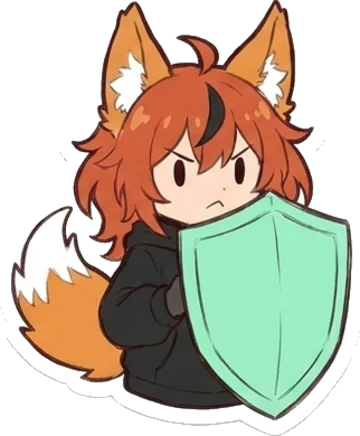
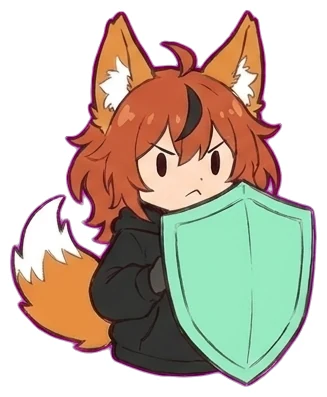
docs: move from MkDocs to Ushka Docs at ushka.satela.com.br/docs
- docs/nav.toml replaces mkdocs.yml; the API stubs are gone (generated now)
- new guide page for Ushka Docs; docs links point to the new site, including
  UnsafeValueError.docs
- CI checks every page, link and anchor with `ushka docs check`
- GitHub Pages now only redirects old links to the new site
- mascot artwork re-cut with chroma key (no white specks, white fur kept,
  uniform sticker outline); the sleeping sticker now matches her outfit

kleber-code

Changed region(s): [[0.0306, 0.0, 0.9786, 1.0], [0.8869, 0.9068, 0.9174, 0.937]]

diff --git a/src/ushka/internal/default_templates/startup.html b/src/ushka/internal/default_templates/startup.html
@@ -28,7 +28,7 @@
         </div>
         <nav aria-label="Ushka resources">
           <ul class="links">
-            <li><a href="https://kleber-code.github.io/ushka/"><span class="bubble b-pink"><svg class="icon" viewBox="0 0 24 24" aria-hidden="true"><path d="M2 5h7a3 3 0 0 1 3 3v12a2 2 0 0 0-2-2H2z"/><path d="M22 5h-7a3 3 0 0 0-3 3v12a2 2 0 0 1 2-2h8z"/></svg></span>Documentation</a></li>
+            <li><a href="https://ushka.satela.com.br/docs/"><span class="bubble b-pink"><svg class="icon" viewBox="0 0 24 24" aria-hidden="true"><path d="M2 5h7a3 3 0 0 1 3 3v12a2 2 0 0 0-2-2H2z"/><path d="M22 5h-7a3 3 0 0 0-3 3v12a2 2 0 0 1 2-2h8z"/></svg></span>Documentation</a></li>
             <li><a href="https://pypi.org/project/ushka/"><span class="bubble b-mint"><svg class="icon" viewBox="0 0 24 24" aria-hidden="true"><path d="M12 2l9 5v10l-9 5-9-5V7z"/><path d="M3 7l9 5 9-5M12 12v10"/></svg></span>View on PyPI</a></li>
             <li><a href="https://github.com/kleber-code/ushka"><span class="bubble b-sky"><svg class="icon" viewBox="0 0 24 24" aria-hidden="true"><path d="M8 7l-5 5 5 5M16 7l5 5-5 5M14 4l-4 16"/></svg></span>Source on GitHub</a></li>
           </ul>

diff --git a/tests/test_workflows.py b/tests/test_workflows.py
@@ -71,18 +71,9 @@ def test_every_step_uses_only_known_keys(path):
             )
 
 
-def test_docs_workflow_installs_pngquant():
-    """`mkdocs-material`'s `optimize` plugin shells out to `pngquant`.
-
-    The binary is not on the GitHub runner image, so the deployment step fails
-    unless the workflow installs it explicitly.
-    """
-    workflow = _load(WORKFLOW_DIR / "docs-deploy.yml")
-    commands = " ".join(
-        step.get("run", "")
-        for job in workflow["jobs"].values()
-        for step in job["steps"]
-    )
-
-    assert "pngquant" in commands
-    assert "git config user.email" in commands
+def test_ci_checks_the_docs_with_ushka_docs():
+    """The docs are rendered by ushka.docs; CI must fail on broken links."""
+    workflow = _load(WORKFLOW_DIR / "ci.yml")
+    steps = workflow["jobs"]["docs"]["steps"]
+    assert any("ushka docs check" in str(step.get("run", "")) for step in steps)
+    assert not any("mkdocs" in str(step.get("run", "")) for step in steps)

diff --git a/src/ushka/cli/commands/new.py b/src/ushka/cli/commands/new.py
@@ -126,7 +126,7 @@ It uses **Ushka**, an async Python web framework with filesystem routing and
   `from ushka.guard import safe`.
 - Mark language-model output with `guard.llm(text)` before using it.
 - An `UnsafeValueError` (`USHKA-G00x`) explains the risk and the fix: apply
-  the fix, do not silence it. Docs: https://kleber-code.github.io/ushka/guide/guard/
+  the fix, do not silence it. Docs: https://ushka.satela.com.br/docs/guide/guard/
 
 ## Commands
 

diff --git a/src/ushka/guard/errors.py b/src/ushka/guard/errors.py
@@ -12,7 +12,7 @@ from typing import Any
 
 __all__ = ["UnsafeValueError"]
 
-DOCS_BASE = "https://kleber-code.github.io/ushka/guide/guard/#"
+DOCS_BASE = "https://ushka.satela.com.br/docs/guide/guard/#"
 
 
 class UnsafeValueError(Exception):

diff --git a/docs/guide/docs.md b/docs/guide/docs.md
@@ -1,0 +1,123 @@
+---
+description: Ushka Docs turns a folder of Markdown into a fast, searchable documentation site with an API reference, served by your Ushka app.
+---
+
+# Ushka Docs
+
+Ushka Docs turns a folder of Markdown into a documentation site served by your
+own app. It is the engine behind the docs you are reading.
+
+- **Rendering.** Pages are rendered once at startup, with code highlighted on
+  the server by Pygments, so the browser runs no JavaScript to colour code.
+- **Search.** Search runs on the server: no index file to download.
+- **API reference.** The reference is generated from your docstrings (numpy
+  style) with griffe.
+- **SEO.** Every page gets a title, description, canonical URL, Open Graph
+  tags and breadcrumbs, and the site publishes a `sitemap.xml`.
+- **Checking.** `ushka docs check` fails on broken links, missing anchors or
+  pages left out of the navigation, which makes it a good CI step.
+
+It is an optional battery: nothing loads until you use it.
+
+```console
+$ pip install "ushka[docs]"
+```
+
+## Mount it
+
+```python
+# app.py
+from ushka import Ushka
+from ushka.docs import Docs
+
+app = Ushka()
+Docs(
+    "docs",                          # the Markdown folder, next to app.py
+    url="/docs",
+    title="My project",
+    base_url="https://example.com",  # canonical URLs and sitemap.xml
+).mount(app)
+```
+
+`Docs.mount()` registers these routes:
+
+| Route | What it serves |
+| --- | --- |
+| `/docs/` and `/docs/<page>/` | Rendered pages. `guide/cli.md` becomes `/docs/guide/cli/`. |
+| `/docs/search?q=` | Search results. The query arrives as `Untrusted` and is always escaped. |
+| `/docs/sitemap.xml` | Every page, when `base_url` is set. |
+| `/docs/<file>` | Images and other assets from the docs folder. Markdown sources and `nav.toml` are never served. |
+
+## Write pages
+
+Write plain Markdown (CommonMark) with tables, task lists, definition lists
+and admonitions:
+
+```markdown
+!!! tip "Optional title"
+    Indented text becomes the body of the box.
+```
+
+Use relative links to other `.md` files, with an optional `#anchor`; they are
+rewritten to page URLs and checked. Heading ids follow the usual slug rules,
+so `### USHKA-G003` becomes `#ushka-g003`.
+
+Front matter is optional:
+
+```markdown
+---
+title: Shown in the tab and in the navigation
+description: Used for the meta description and search previews.
+---
+```
+
+When a page has no description, the first paragraph long enough to describe
+it is used instead.
+
+## Navigation
+
+List the pages in reading order in `docs/nav.toml`:
+
+```toml
+[[section]]
+title = ""
+pages = ["index.md"]
+
+[[section]]
+title = "Guide"
+pages = ["guide/install.md", "guide/routing.md"]
+
+[api]
+title = "API reference"
+modules = ["myproject.core", "myproject.utils"]
+```
+
+The `[api]` modules are documented when you pass `api_package="myproject"`
+(and `api_path="src"` if the package lives there).
+
+## Check and preview
+
+```console
+$ ushka docs check docs --api myproject   # exit code 1 on any problem
+$ ushka docs serve docs                   # http://127.0.0.1:8001/docs/
+```
+
+## Make it yours
+
+The theme is a set of templates (`docs/layout.html`, `docs/page.html` and
+`docs/search.html`). Files with the same names in your project's
+`templates/docs/` folder replace them. Smaller tweaks need no templates:
+
+```python
+Docs(
+    "docs",
+    logo="/static/logo.png",
+    og_image="https://example.com/static/og.png",
+    links=[("GitHub", "https://github.com/me/project")],
+    edit_url="https://github.com/me/project/edit/main/docs/",
+    extra_css=["/static/brand.css"],
+)
+```
+
+The default theme keeps text on flat backgrounds, and its colour pairs meet
+WCAG AA contrast (4.5:1) in light and dark mode.

diff --git a/README.md b/README.md
@@ -3,7 +3,7 @@
 # Ushka
 
 [![PyPI Version](https://img.shields.io/pypi/v/ushka)](https://pypi.org/project/ushka/)
-[![Documentation](https://img.shields.io/badge/docs-kleber--code.github.io%2Fushka-pink)](https://kleber-code.github.io/ushka/)
+[![Documentation](https://img.shields.io/badge/docs-ushka.satela.com.br-F07A3A)](https://ushka.satela.com.br/docs/)
 ![Python Versions](https://img.shields.io/pypi/pyversions/ushka)
 ![License](https://img.shields.io/pypi/l/ushka)
 
@@ -35,7 +35,7 @@ OWASP Top 10 flaws in
 Apps also pass **model output** into HTML, redirects and SQL, where prompt
 injection can steer it. Ushka puts the check where it cannot be skipped: in
 the framework, at runtime, on your real code. Read
-[Why Ushka changed](https://kleber-code.github.io/ushka/why-ushka-changed/).
+[Why Ushka changed](https://ushka.satela.com.br/docs/why-ushka-changed/).
 
 ## What's in the box
 
@@ -50,7 +50,8 @@ the framework, at runtime, on your real code. Read
   - Async Active Record ORM on SQLAlchemy, with migrations in `ushka db` (extra `ushka[orm]`).
   - Jinja2 templates, signed sessions, cookies, flash messages, file uploads and request size limits.
 - **Config.** Defaults, then `ushka.toml`, then `.env`, then environment variables, all without extra packages. `DATABASE_URL` works out of the box.
-- **CLI.** `new`, `dev`, `run`, `check` (CI-friendly security check), `routes` and `db`.
+- **Ushka Docs.** A Markdown folder becomes a searchable docs site with an API reference, served by your app (`ushka[docs]`).
+- **CLI.** `new`, `dev`, `run`, `check` (CI-friendly security check), `docs`, `routes` and `db`.
 - **Low dependency.** The core needs only `uvicorn`, `jinja2` and `python-multipart` (plus `tomli` on 3.10).
 
 ## Quick start
@@ -98,8 +99,8 @@ ushka check --production   # fails (exit 1) on debug on, missing secret, guard o
 ## Documentation
 
 Guides, the Ushka Guard reference and the API reference are at
-**https://kleber-code.github.io/ushka/**. For AI tools there is
-[`llms.txt`](https://kleber-code.github.io/ushka/llms.txt).
+**https://ushka.satela.com.br/docs/**. For AI tools there is
+[`llms.txt`](https://ushka.satela.com.br/llms.txt).
 
 ## Contributing
 

diff --git a/CHANGELOG.md b/CHANGELOG.md
@@ -3,11 +3,31 @@
 All notable changes to Ushka. The format follows
 [Keep a Changelog](https://keepachangelog.com/en/1.1.0/).
 
+## [Unreleased]
+
+### Added
+
+- **Ushka Docs** (`ushka.docs`, extra `ushka[docs]`): a folder of Markdown becomes a documentation site served by your app.
+  - Rendering: pages are rendered at startup with Pygments highlighting on the server and served with ETags.
+  - Search runs on the server, and the query is untrusted and escaped.
+  - The API reference is generated from docstrings with griffe.
+  - SEO: canonical URLs, Open Graph, JSON-LD breadcrumbs and `sitemap.xml`.
+  - The theme can be overridden and its contrast meets WCAG AA, which is checked in tests.
+  - `ushka docs check` fails on broken links or anchors, and `ushka docs serve` previews the site.
+- **`app.mount_static(url, directory, html=..., cache_control=...)`**: serves any folder with `ETag`/`304`, `Last-Modified`, `nosniff` and an html mode. `[static] cache_control` sets the header for the `[static]` folder.
+- **The project website**, https://ushka.satela.com.br, built with Ushka in `site/`. It serves the docs, an `install.sh` with a published SHA-256, `llms.txt`, `robots.txt` and `sitemap.xml`.
+- **Ushka, the mascot**: a maned-wolf (lobo-guará) guardian with 12 stickers. The built-in pages show her inline.
+
+### Changed
+
+- **The docs no longer use MkDocs.** They are rendered by Ushka Docs at https://ushka.satela.com.br/docs/, and GitHub Pages now redirects there. The `UnsafeValueError` docs links point to the new site.
+- **The dev dependency group** drops MkDocs and its plugins.
+
 ## [0.5.0] - 2026-11-14
 
 Ushka now has one purpose: insecure code, whether a person or an AI wrote it,
 does not run silently. See
-[Why Ushka changed](https://kleber-code.github.io/ushka/why-ushka-changed/).
+[Why Ushka changed](https://ushka.satela.com.br/docs/why-ushka-changed/).
 
 ### Added
 

diff --git a/docs/guide/guard.md b/docs/guide/guard.md
@@ -1,6 +1,6 @@
 # Ushka Guard
 
-![Ushka holding up her shield](../assets/stickers/shield.webp){ .ushka-sticker width="190" height="230" }
+![Ushka holding up her shield](../assets/stickers/shield.webp){ .ushka-sticker width="190" height="231" }
 
 Ushka Guard makes untrusted data a **type**. Everything that comes from outside
 your program arrives as an `Untrusted` string, and the places where such a
@@ -139,7 +139,7 @@ the code on the next try:
 {"error": "unsafe_value", "code": "USHKA-G003", "sink": "redirect()",
  "source": "query:next", "risk": "open redirect / phishing",
  "fix": "redirect(safe.url(value, allow=[\"/\"], default=\"/\"))",
- "docs": "https://kleber-code.github.io/ushka/guide/guard/#ushka-g003"}
+ "docs": "https://ushka.satela.com.br/docs/guide/guard/#ushka-g003"}
 ```
 
 In production the client only sees a generic 500. The details go to the log,

diff --git a/docs/index.md b/docs/index.md
@@ -1,12 +1,9 @@
 ---
-title: Ushka
-template: home.html
-hide:
-  - navigation
-  - toc
+title: Documentation
+description: Ushka is an async Python web framework where untrusted data is a type and dangerous sinks refuse it. Start here.
 ---
 
-# Ushka { .ushka-home-heading }
+# Ushka documentation
 
 ## Untrusted data is a type
 
